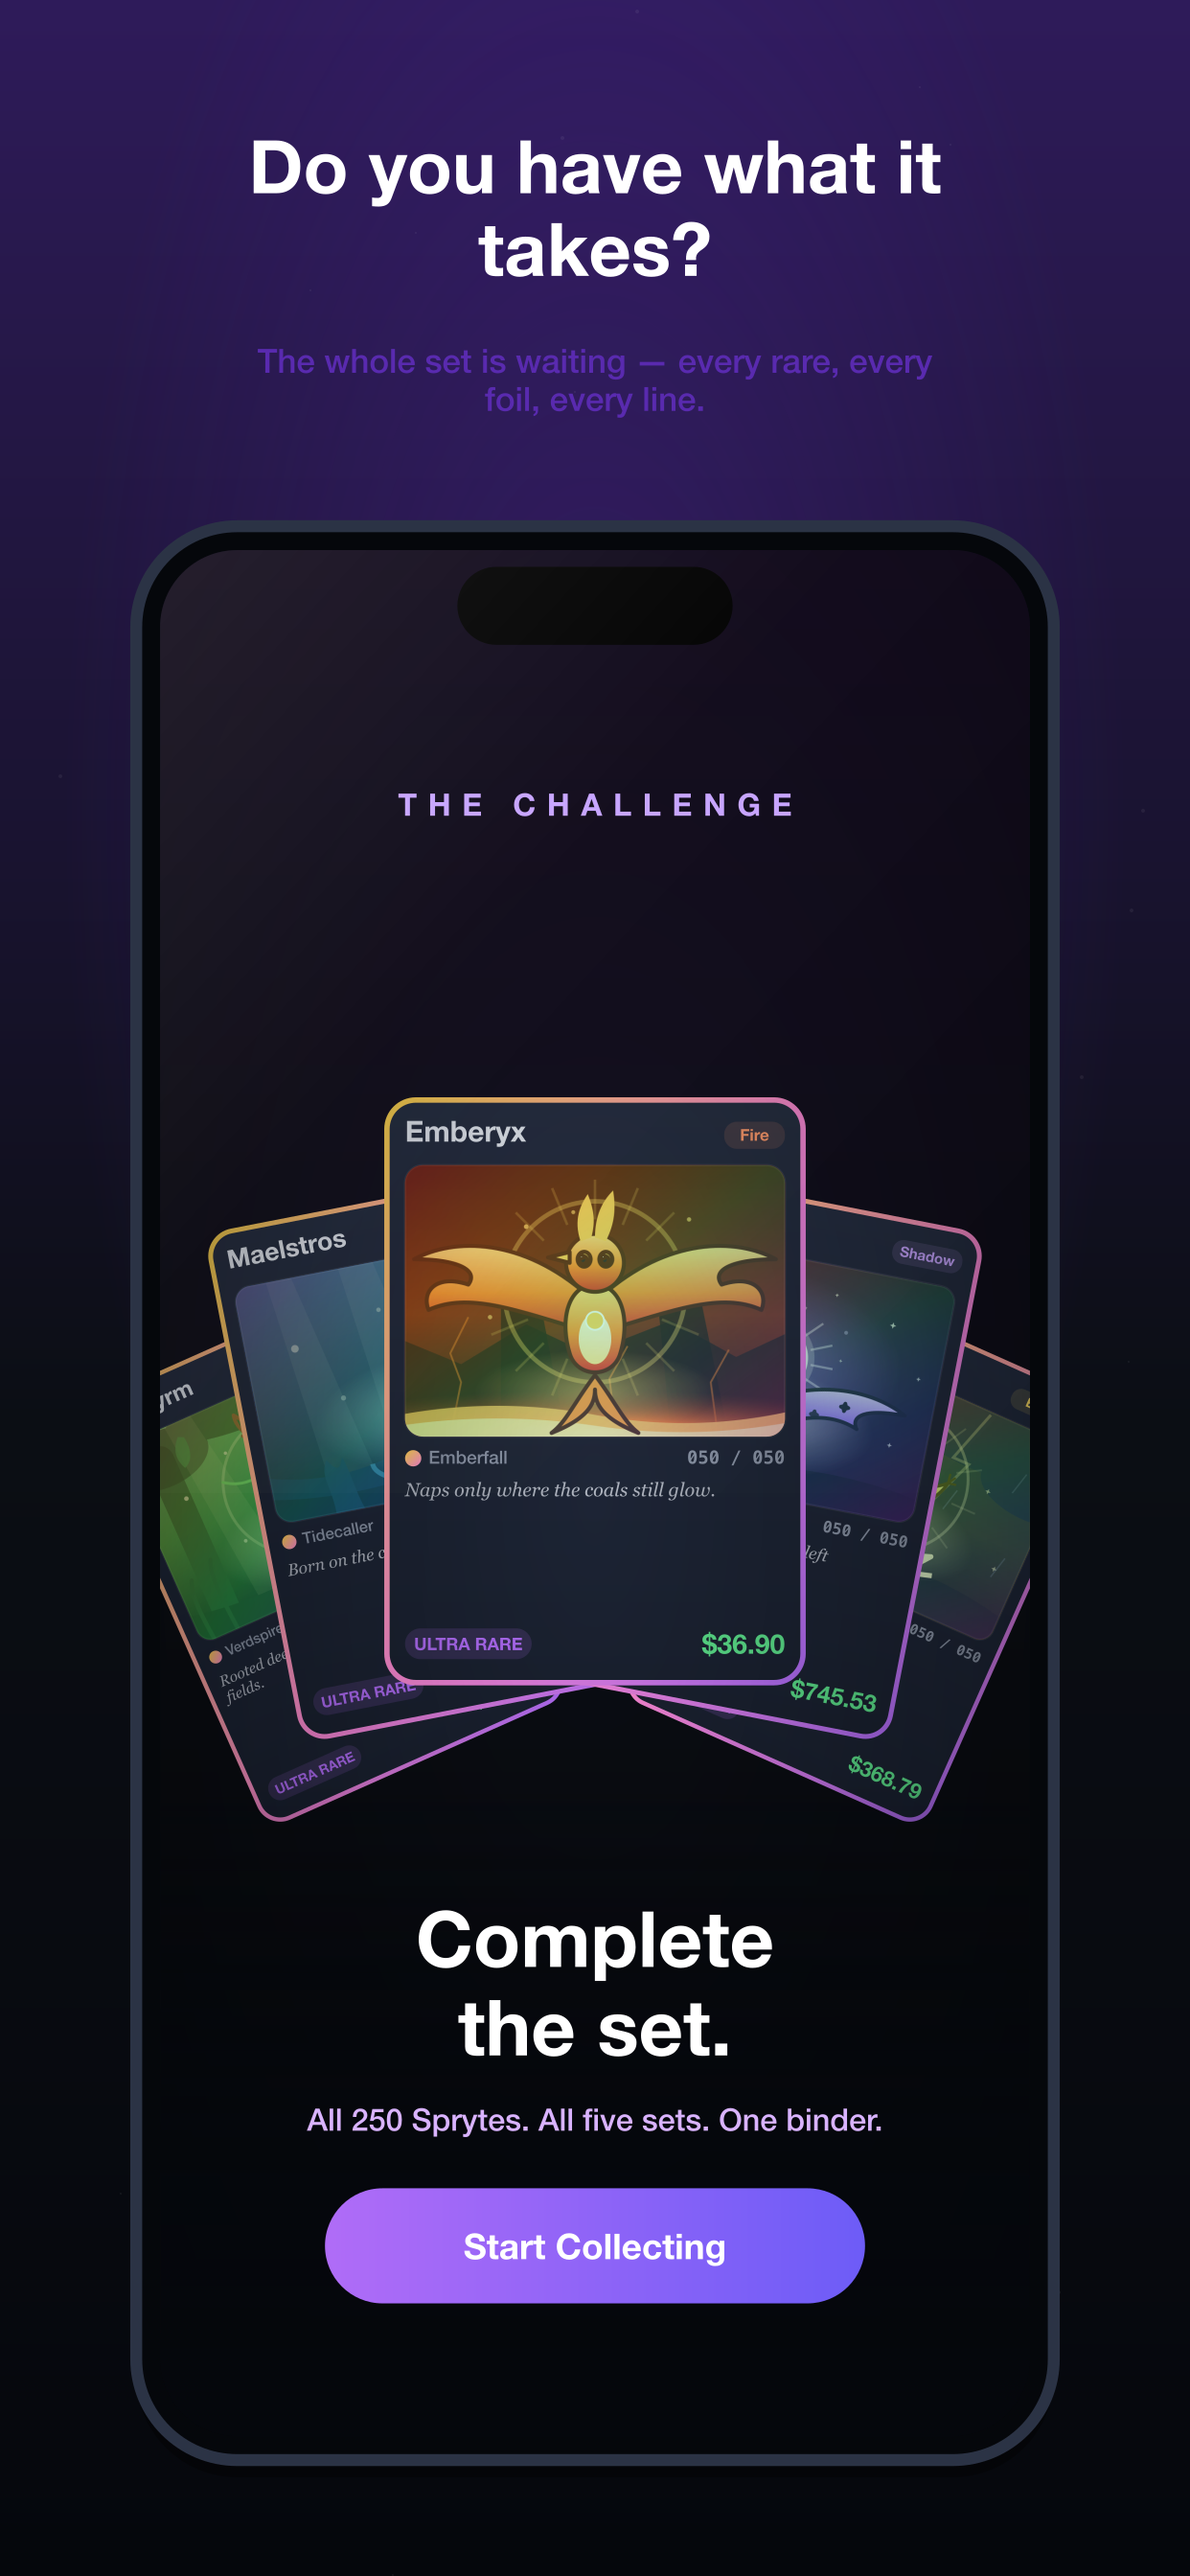
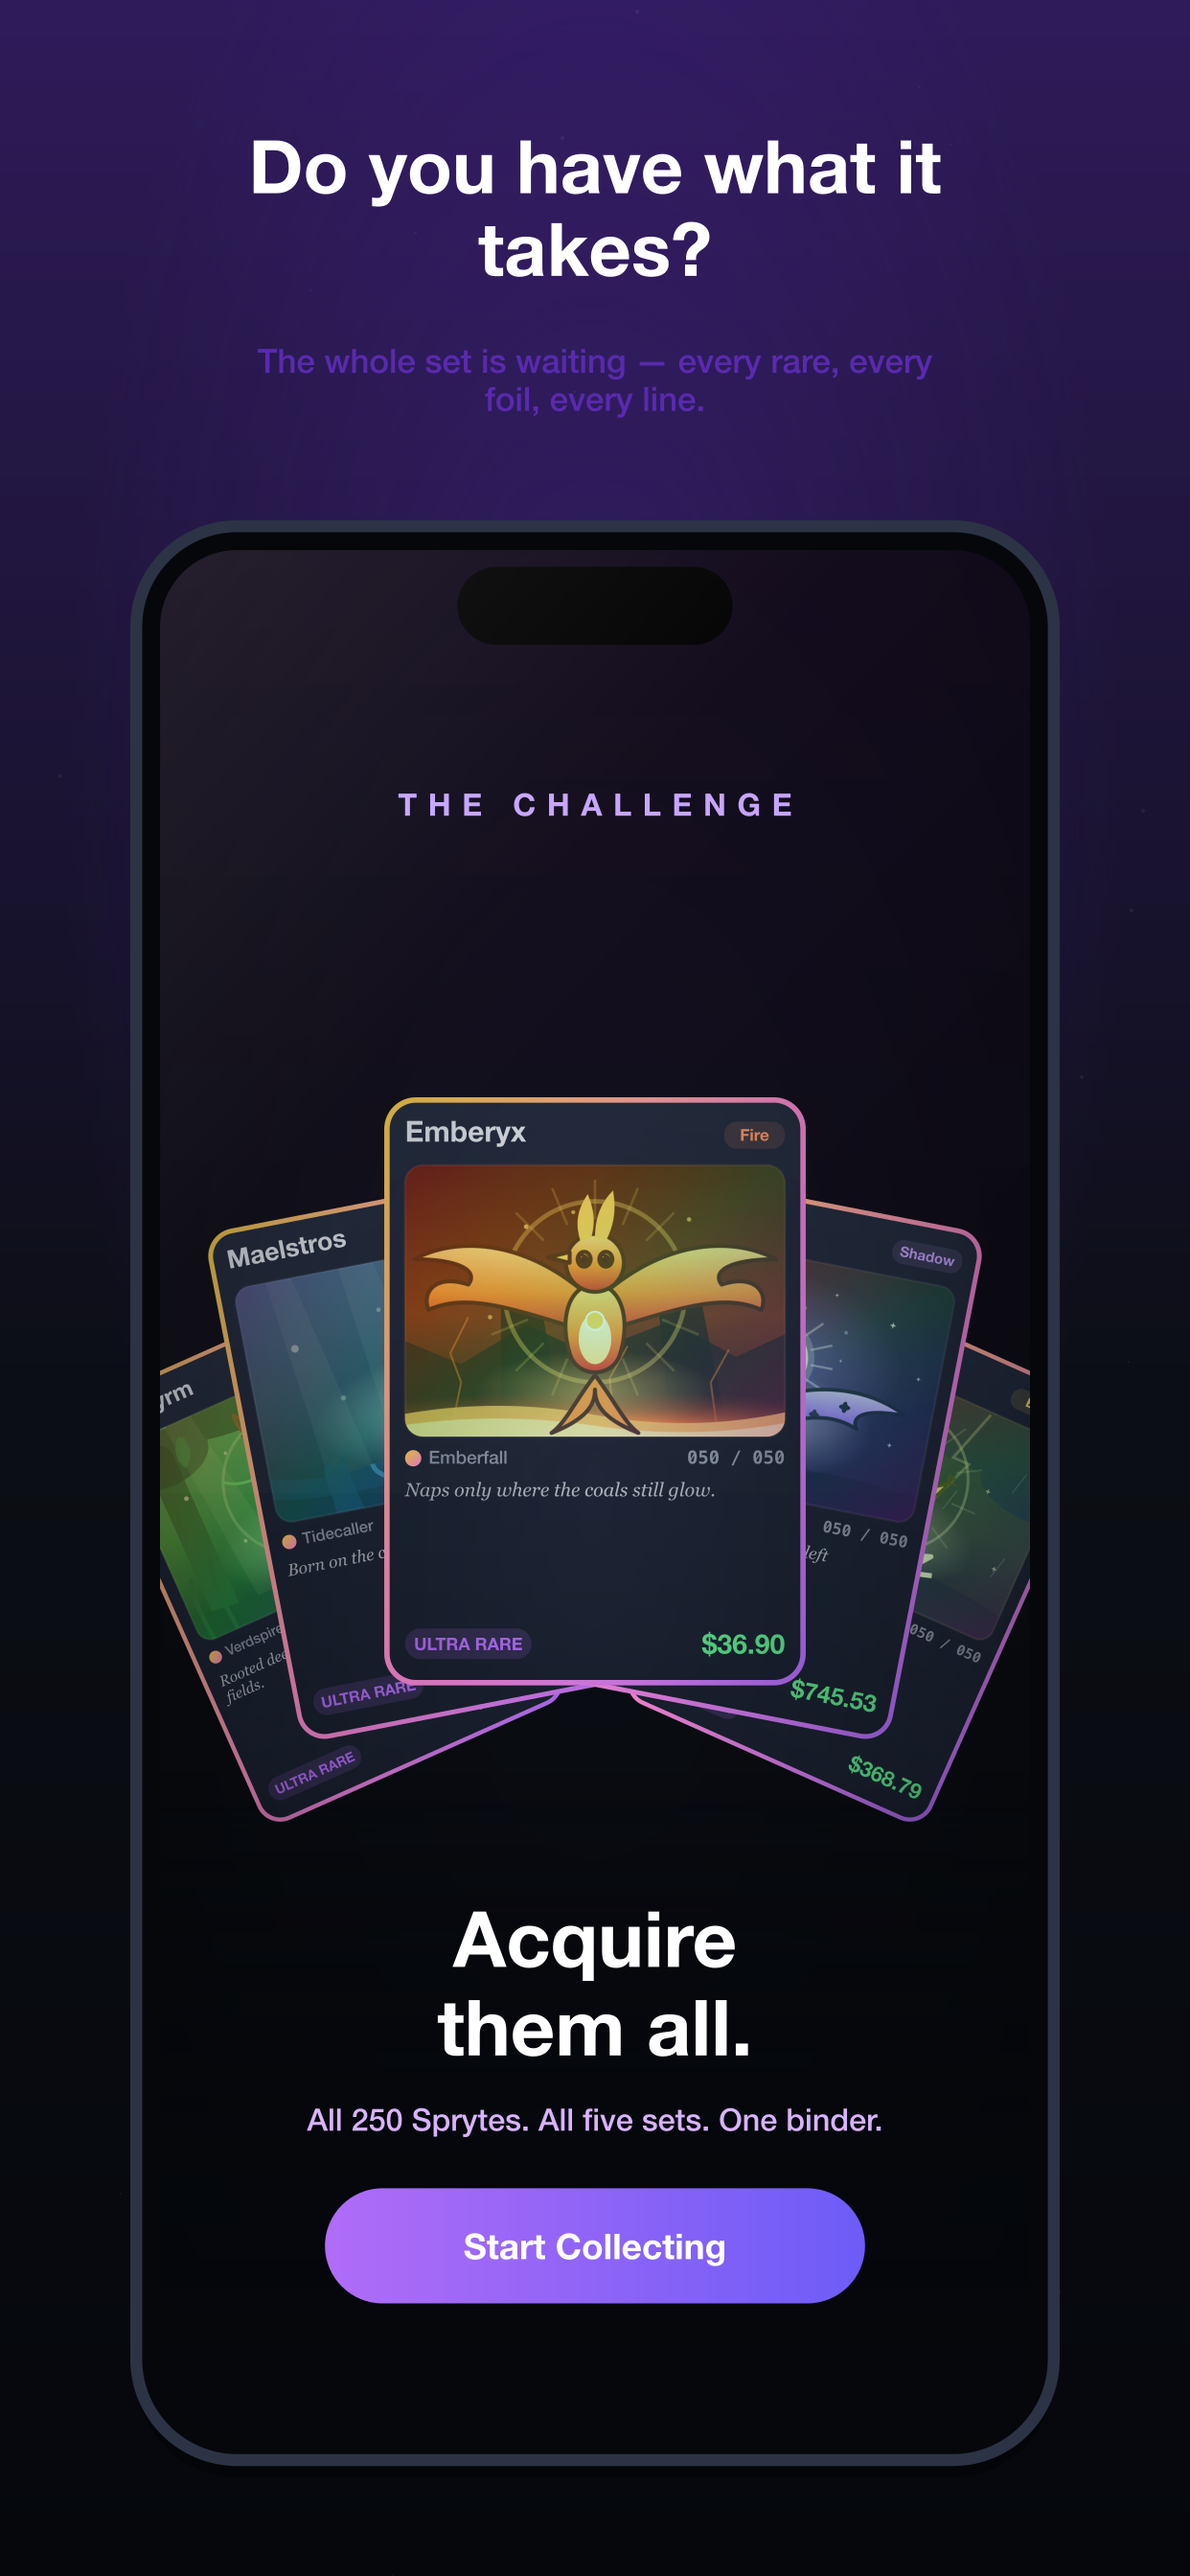
Challenge scene: headline "Complete the set." -> "Acquire them all."
Update the scene-10 lockup copy and regenerate its two renders.

Changed region(s): [[0.3366, 0.7188, 0.6425, 0.8125]]

diff --git a/tools/generate_screenshots.py b/tools/generate_screenshots.py
@@ -873,8 +873,8 @@ def screen_challenge(defs):
     out.append(rrect(0, 556, SCREEN_W, SCREEN_H - 556, 0, grad=fade))
 
     out.append(text(cx, 120, "THE CHALLENGE", 14, "#c6a3ff", weight=900, anchor="middle", tracking=5))
-    out.append(text(cx, 640, "Complete", 35, "#ffffff", weight=900, anchor="middle"))
-    out.append(text(cx, 680, "the set.", 35, "#ffffff", weight=900, anchor="middle"))
+    out.append(text(cx, 640, "Acquire", 35, "#ffffff", weight=900, anchor="middle"))
+    out.append(text(cx, 680, "them all.", 35, "#ffffff", weight=900, anchor="middle"))
     out.append(text(cx, 714, "All 250 Sprytes. All five sets. One binder.", 14, "#d9b3ff",
                     weight=600, anchor="middle"))
 
